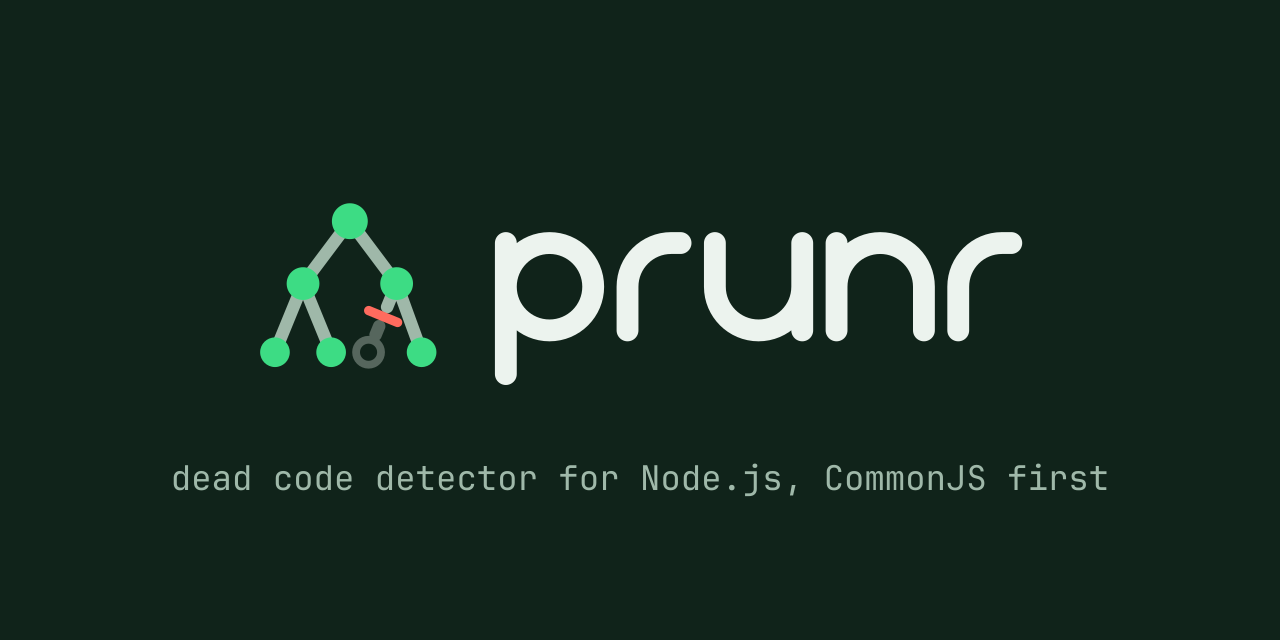
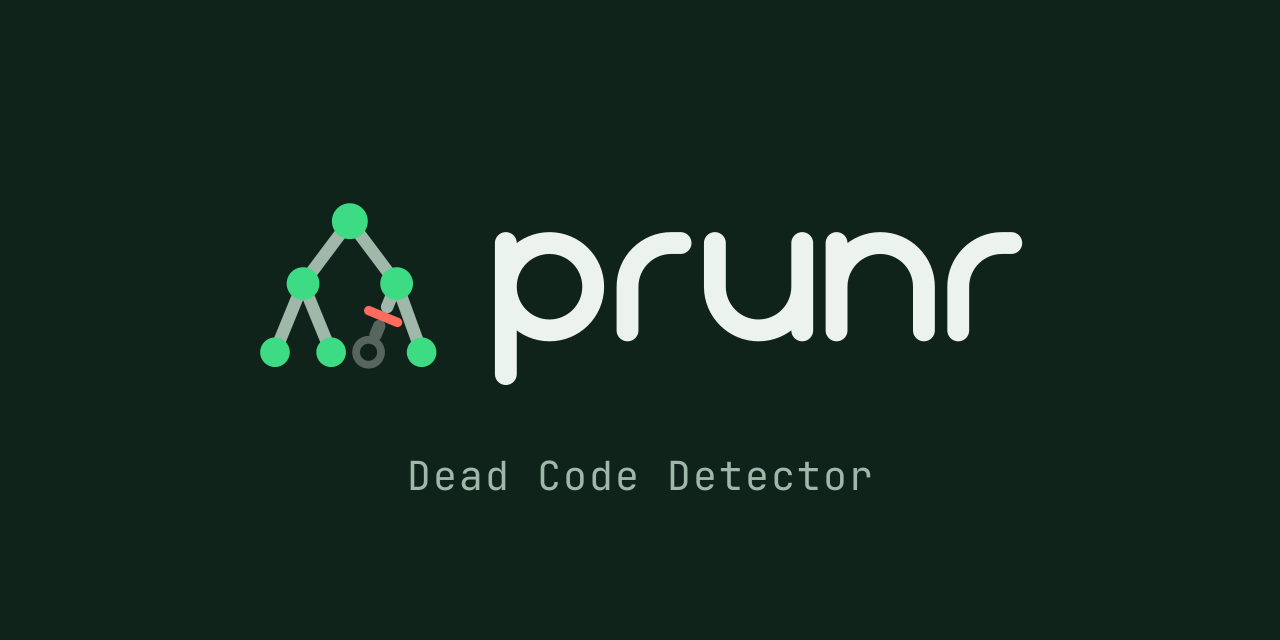
docs: shorten the social preview tagline to "Dead Code Detector"

Changed region(s): [[0.125, 0.7188, 0.875, 0.7812]]

diff --git a/assets/brand/generate.py b/assets/brand/generate.py
@@ -122,8 +122,8 @@ def social():
         group("translate(250 190) scale(1.56)", mark(p) + "\n" + group("translate(164 34)",
                                                                        wordmark(p["ink"]))),
         f'<text x="640" y="490" text-anchor="middle" fill="{p["edge"]}" '
-        'font-family="JetBrains Mono, ui-monospace, monospace" font-size="34">'
-        "dead code detector for Node.js, CommonJS first</text>",
+        'font-family="JetBrains Mono, ui-monospace, monospace" font-size="40" letter-spacing="2">'
+        "Dead Code Detector</text>",
     ])
     return svg("0 0 1280 640", body)
 
